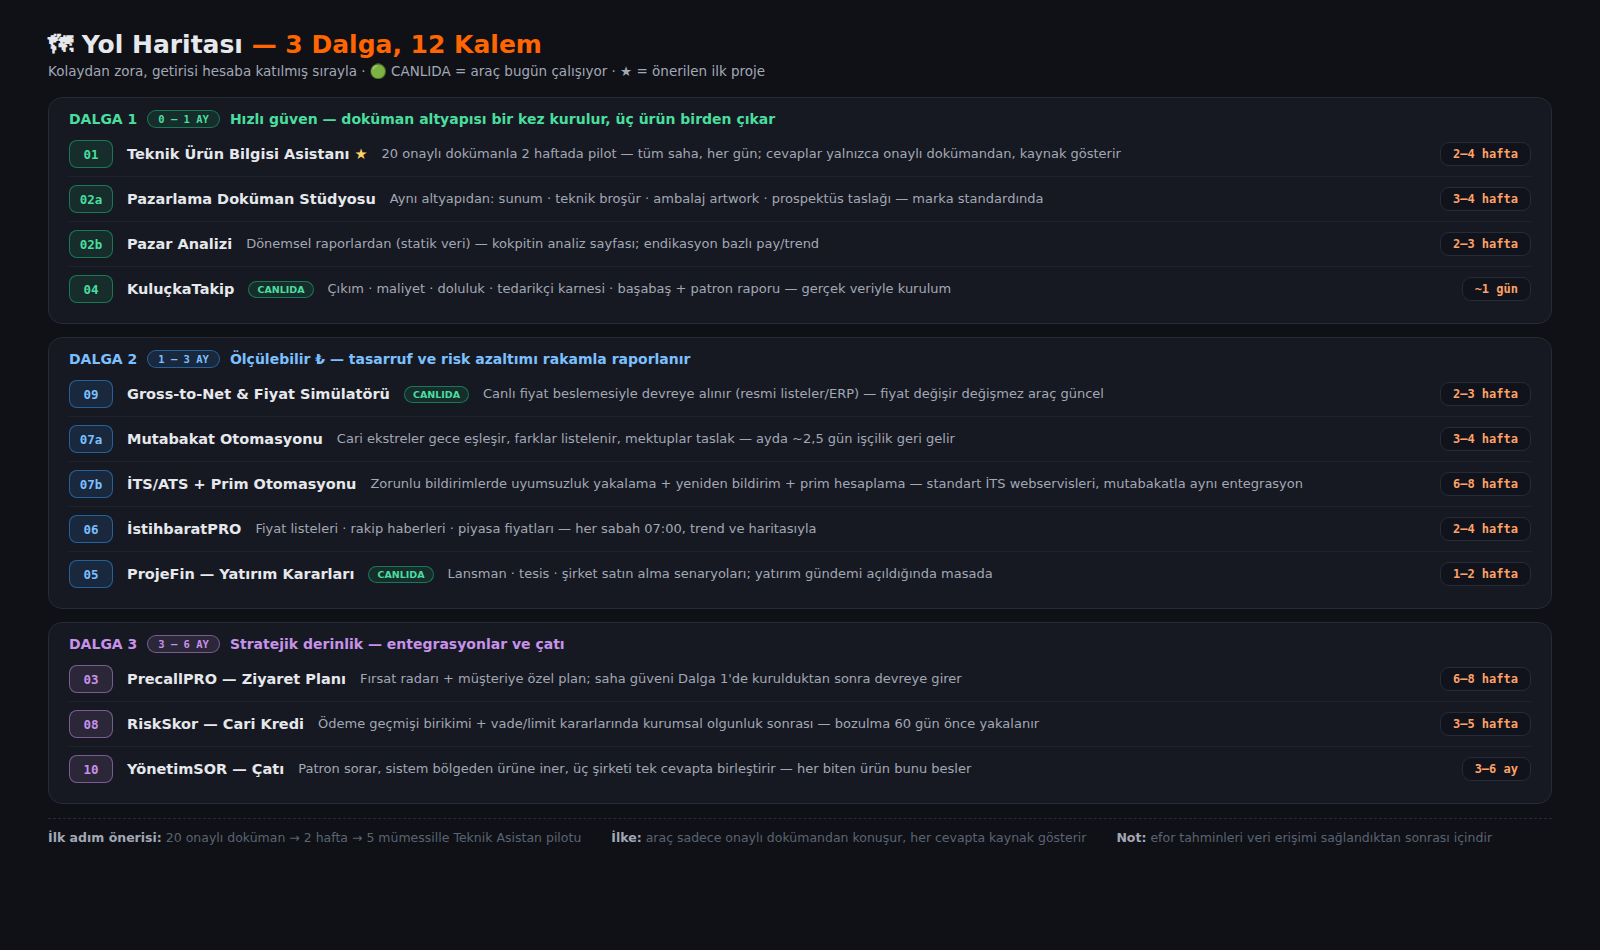
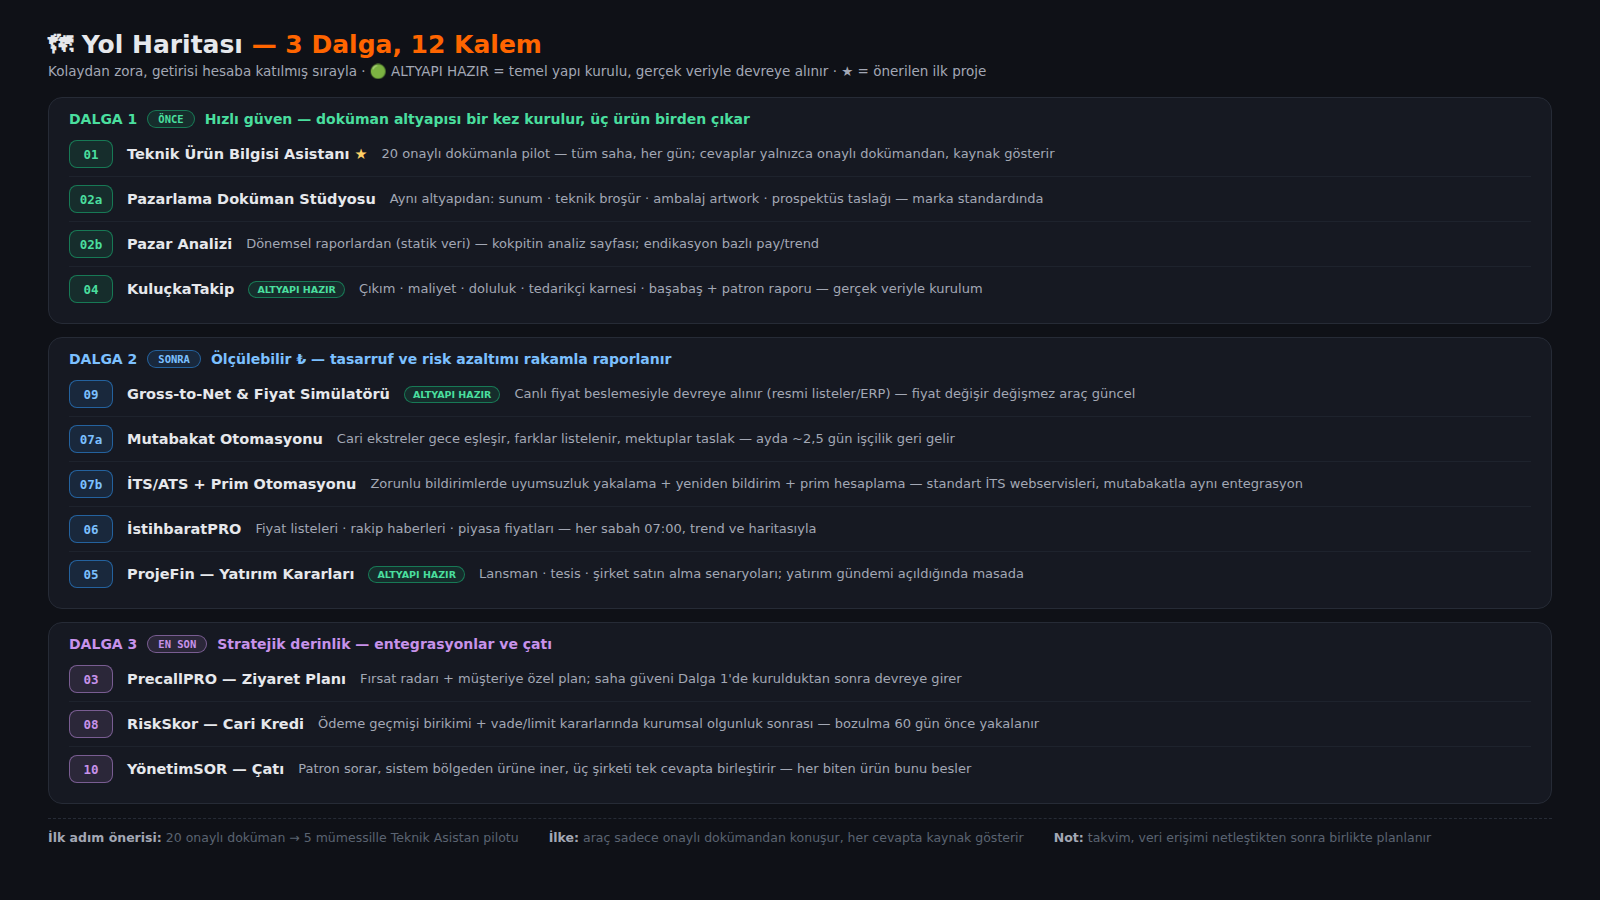
sunum: 'gerçek araç' -> 'altyapı hazır', süre tahminlerini kaldır
Claude-Session: https://claude.ai/code/session_014VRtYSTuX15SryhdC3f7Lo

diff --git a/sunum-vk84qz/index.html b/sunum-vk84qz/index.html
@@ -33,19 +33,19 @@ h1{font-size:22px;font-weight:800}h1 span{color:#FF6500}
   <div class="wsep w1">DALGA 1 — HIZLI GÜVEN</div>
   <div class="card"><video src="01-teknik-urun-asistani.mp4" controls playsinline preload="metadata"></video><div class="meta"><div class="t"><span class="n">01</span> Teknik Ürün Bilgisi Asistanı ★ <span class="mock">MOCK</span></div><div class="say">"Mümessil ürün sorusunu <b>onaylı dokümandan</b> saniyede alır — rakip kıyası ve itiraz cevabı dahil."</div><div class="dur">61 sn · Erişim: Satış + Pazarlama</div></div></div>
   <div class="card"><video src="02-pazarlama-kokpiti.mp4" controls playsinline preload="metadata"></video><div class="meta"><div class="t"><span class="n">02</span> Pazarlama Kokpiti (Stüdyo + Analiz) <span class="mock">MOCK</span></div><div class="say">"Endikasyon seç → kanıtlı pazar analizi → sunum, broşür, artwork ve <b>prospektüs taslağı</b> kendiliğinden."</div><div class="dur">62 sn · Erişim: Sadece Pazarlama</div></div></div>
-  <div class="card"><video src="03-kuluckatakip.mp4" controls playsinline preload="metadata"></video><div class="meta"><div class="t"><span class="n">03</span> KuluçkaTakip <span class="real">GERÇEK ARAÇ</span></div><div class="say">"Bu maket değil — <b>bugün canlıda</b>: çıkım, maliyet, doluluk, tedarikçi karnesi, başabaş ve patron raporu."</div><div class="dur">43 sn · Kuluçkahane</div></div></div>
+  <div class="card"><video src="03-kuluckatakip.mp4" controls playsinline preload="metadata"></video><div class="meta"><div class="t"><span class="n">03</span> KuluçkaTakip <span class="real">ALTYAPI HAZIR</span></div><div class="say">"Bu maket değil — <b>altyapısı hazır</b>: çıkım, maliyet, doluluk, tedarikçi karnesi, başabaş ve patron raporu."</div><div class="dur">43 sn · Kuluçkahane</div></div></div>
   <div class="wsep w2">DALGA 2 — ÖLÇÜLEBİLİR ₺</div>
-  <div class="card"><video src="04-gross-to-net.mp4" controls playsinline preload="metadata"></video><div class="meta"><div class="t"><span class="n">04</span> Gross-to-Net Simülatörü <span class="real">GERÇEK ARAÇ</span></div><div class="say">"Her iskonto kararının net marja etkisi <b>masada, anında</b> — devreye canlı fiyat beslemesiyle alınır."</div><div class="dur">31 sn · İlaç + Depo</div></div></div>
+  <div class="card"><video src="04-gross-to-net.mp4" controls playsinline preload="metadata"></video><div class="meta"><div class="t"><span class="n">04</span> Gross-to-Net Simülatörü <span class="real">ALTYAPI HAZIR</span></div><div class="say">"Her iskonto kararının net marja etkisi <b>masada, anında</b> — devreye canlı fiyat beslemesiyle alınır."</div><div class="dur">31 sn · İlaç + Depo</div></div></div>
   <div class="card"><video src="05-surec-otomasyonu.mp4" controls playsinline preload="metadata"></video><div class="meta"><div class="t"><span class="n">05</span> AkışPRO — Mutabakat · İTS/ATS · Prim <span class="mock">MOCK</span></div><div class="say">"Farklı dosya ve sistemlerden <b>çeker, hesaplar, çıktıyı üretir</b> — gecede 14 dakika."</div><div class="dur">50 sn · Ecza Deposu</div></div></div>
   <div class="card"><video src="06-istihbarat.mp4" controls playsinline preload="metadata"></video><div class="meta"><div class="t"><span class="n">06</span> İstihbaratPRO <span class="mock">MOCK</span></div><div class="say">"Siz sormadan her sabah: fiyat değişimleri, rakip hamleleri, piyasa makası — <b>trend ve haritasıyla</b>."</div><div class="dur">44 sn · Erişim: Yönetim + Pazarlama</div></div></div>
-  <div class="card"><video src="07-projefin-yatirim.mp4" controls playsinline preload="metadata"></video><div class="meta"><div class="t"><span class="n">07</span> ProjeFin — Yatırım Kararları <span class="real">GERÇEK ARAÇ</span></div><div class="say">"Lansman, tesis, şirket satın alma — <b>aynı motor</b>: IRR/NPV canlı döner, Monte Carlo fiyat üst sınırını söyler."</div><div class="dur">36 sn · Holding</div></div></div>
+  <div class="card"><video src="07-projefin-yatirim.mp4" controls playsinline preload="metadata"></video><div class="meta"><div class="t"><span class="n">07</span> ProjeFin — Yatırım Kararları <span class="real">ALTYAPI HAZIR</span></div><div class="say">"Lansman, tesis, şirket satın alma — <b>aynı motor</b>: IRR/NPV canlı döner, Monte Carlo fiyat üst sınırını söyler."</div><div class="dur">36 sn · Holding</div></div></div>
   <div class="wsep w3">DALGA 3 — STRATEJİK DERİNLİK</div>
   <div class="card"><video src="08-precall-plan.mp4" controls playsinline preload="metadata"></video><div class="meta"><div class="t"><span class="n">08</span> PrecallPRO — Ziyaret Planı <span class="mock">MOCK</span></div><div class="say">"Araç fırsatı gösterir, <b>kararı mümessil verir</b> — plan o müşteriye özel kurulur, chat ile güncellenir."</div><div class="dur">52 sn · Erişim: Satış Ekibi</div></div></div>
   <div class="card"><video src="09-kredi-risk-skoru.mp4" controls playsinline preload="metadata"></video><div class="meta"><div class="t"><span class="n">09</span> RiskSkor — Cari Kredi <span class="mock">MOCK</span></div><div class="say">"6 ay vadeli sektörde batak tahsilatta değil <b>sipariş anında</b> önlenir — bozulma 60 gün önce yakalanır."</div><div class="dur">44 sn · Erişim: Finans</div></div></div>
   <div class="card"><video src="10-yonetimsor-final.mp4" controls playsinline preload="metadata"></video><div class="meta"><div class="t"><span class="n">10</span> YönetimSOR — Final <span class="mock">MOCK</span></div><div class="say">"Patron sorar — sistem <b>bölgeden ürüne iner</b>, üç şirketi tek cevapta birleştirir. Kapanış bu."</div><div class="dur">78 sn · Erişim: Yönetim</div></div></div>
 </div>
 <div class="foot">
-Toplam: ~8 dk 20 sn video · GERÇEK ARAÇ rozetli 3 ürün bugün canlıda (03, 04, 07) · Tüm mock'larda "ÖRNEK VERİ" ibaresi köşededir.<br>
+Toplam: ~8 dk 20 sn video · ALTYAPI HAZIR rozetli 3 ürün (03, 04, 07): temel yapı kurulu, gerçek veriyle devreye alınır · Tüm mock'larda "ÖRNEK VERİ" ibaresi köşededir.<br>
 Akış: 01→10 sırayla (yol haritası dizilimi); her video bitince durur, sıradakini sen başlatırsın.<br>🗺 <a href="yol-haritasi.png" style="color:#7CC0FF">Yol haritası (tek sayfa görsel)</a>
 </div>
 </body>